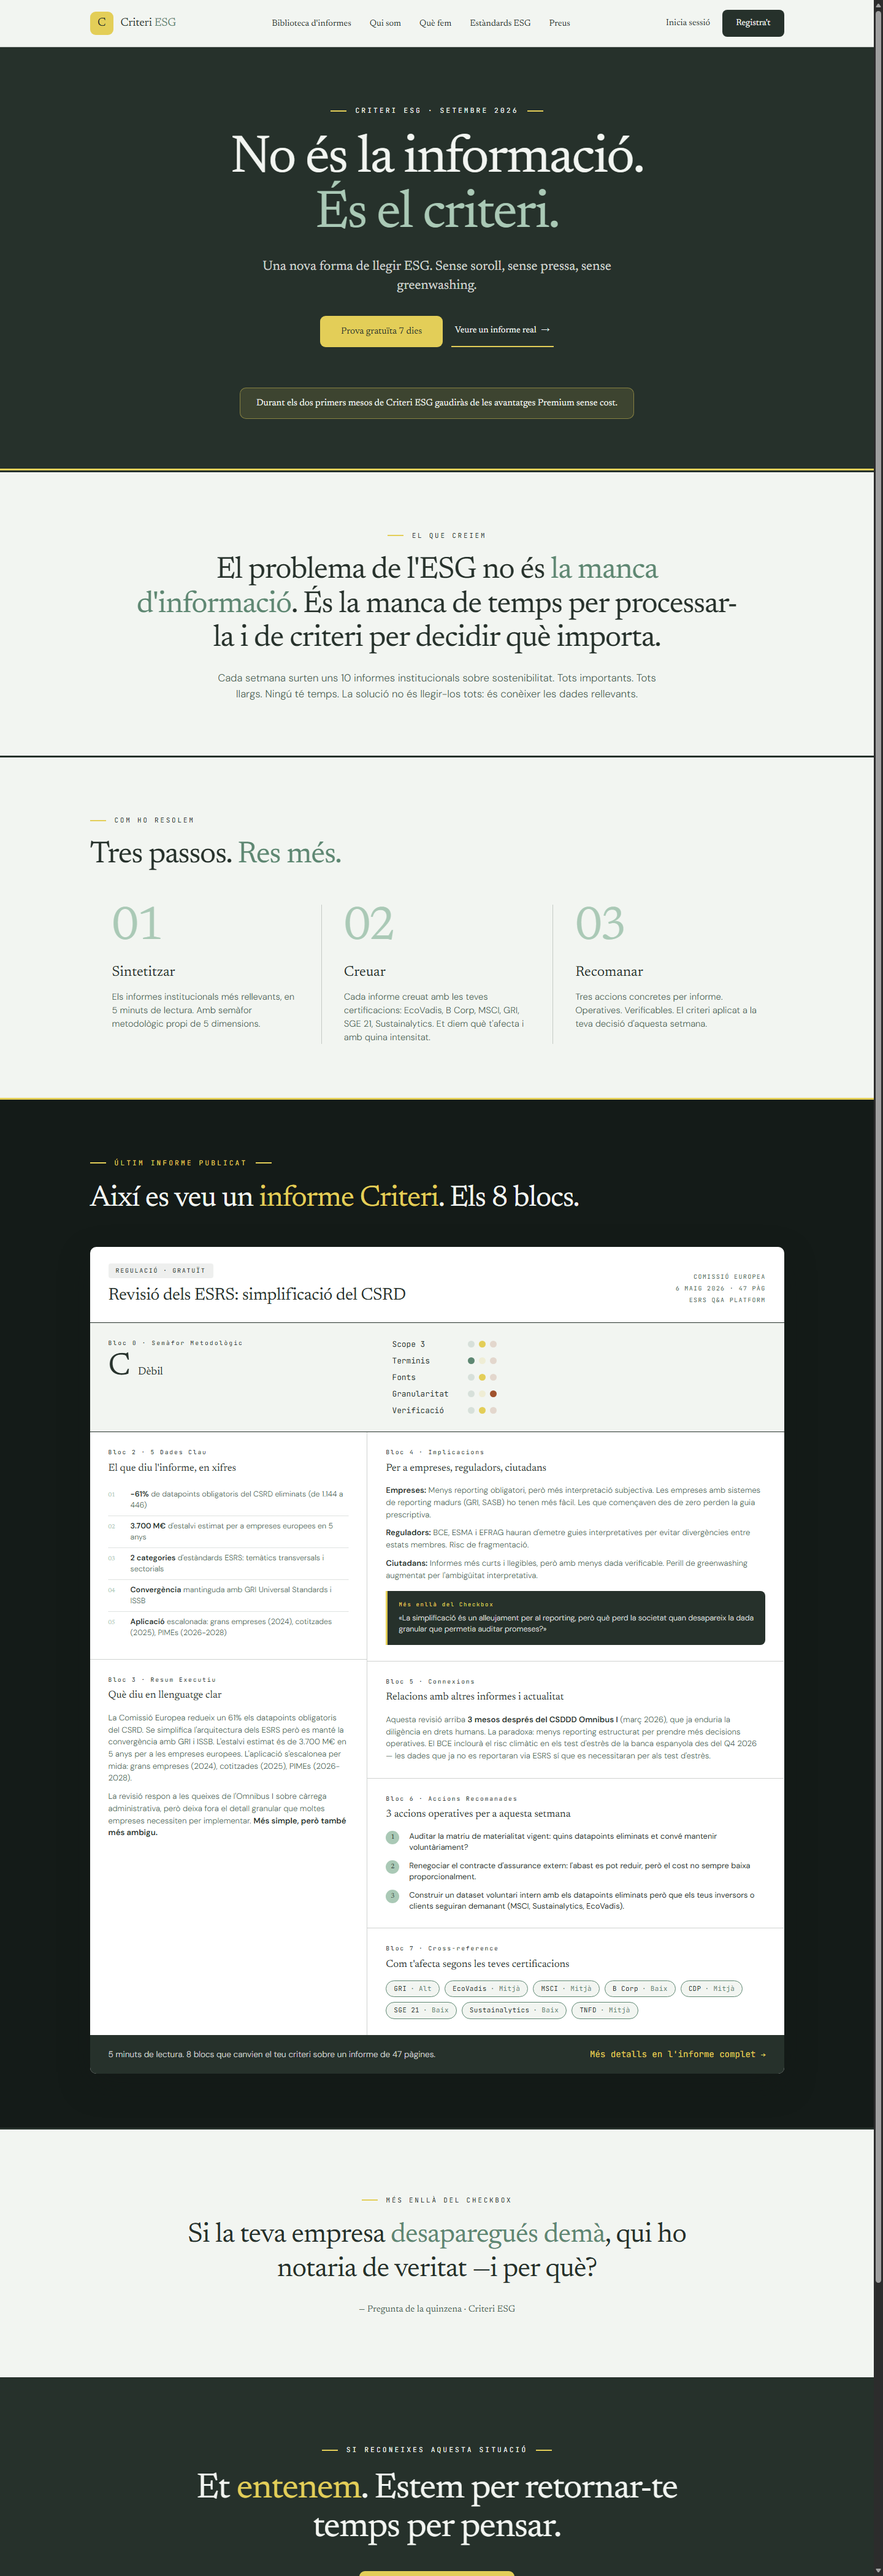
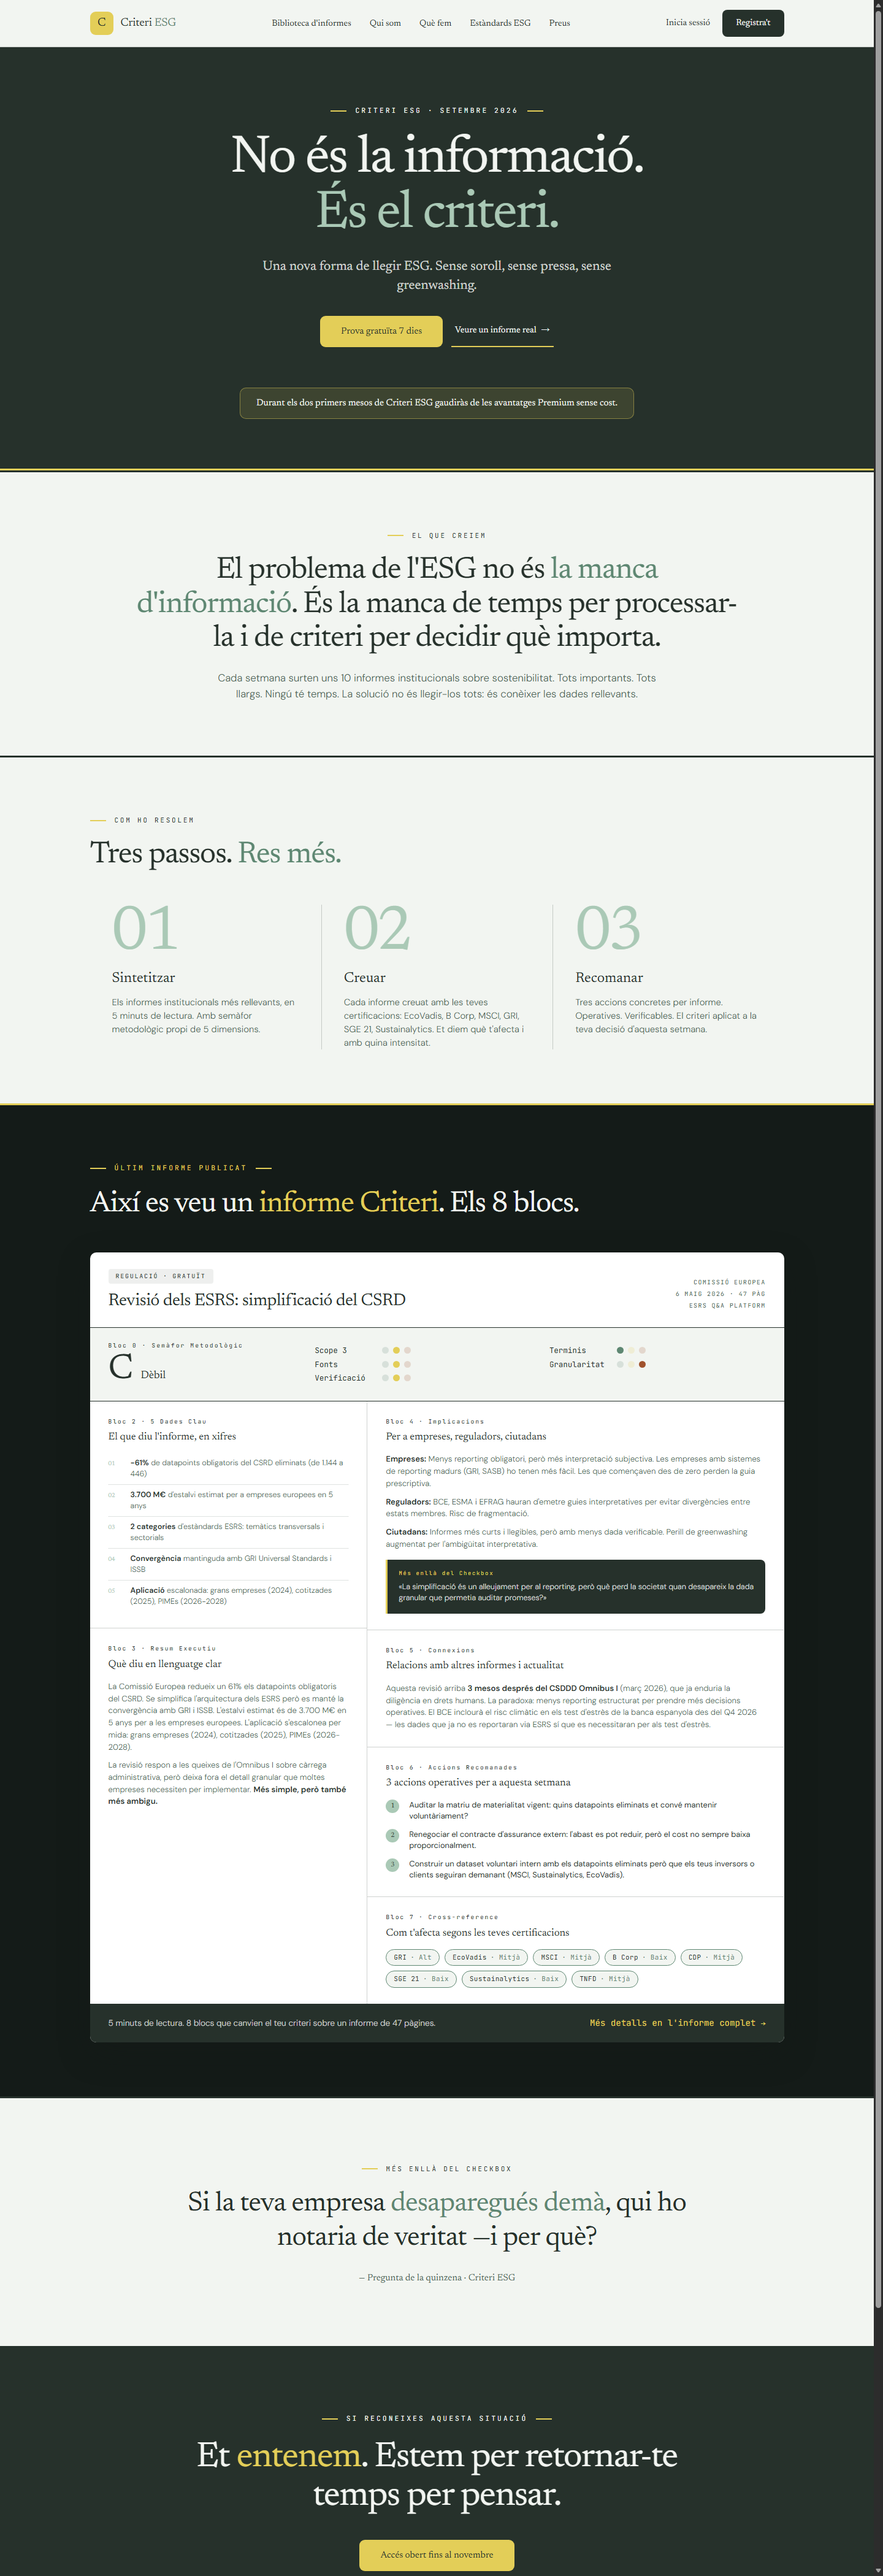
style: salvia v5 - numeros mes grans, espai reduit sota ells, semafor horitzontal amb metriques en 2 columnes

diff --git a/assets/redisseny-web/mockup-homepage-paleta-salvia.html b/assets/redisseny-web/mockup-homepage-paleta-salvia.html
@@ -179,10 +179,10 @@
   .thesis { padding: 0 36px; }
   .thesis + .thesis { border-left: 1px solid var(--line); }
   .thesis .num {
-    font-size: clamp(3.4rem, 6vw, 4.8rem); font-weight: 400;
-    color: var(--verd-clar); line-height: 1; letter-spacing: -0.04em;
+    font-size: clamp(4.4rem, 8vw, 6.4rem); font-weight: 400;
+    color: var(--verd-clar); line-height: 0.95; letter-spacing: -0.04em;
   }
-  .thesis h3 { font-size: 1.45rem; font-weight: 400; margin: 18px 0 12px; color: var(--ink); }
+  .thesis h3 { font-size: 1.45rem; font-weight: 400; margin: 8px 0 10px; color: var(--ink); }
   .thesis p { font-size: 0.92rem; font-weight: 300; color: var(--ink-soft); line-height: 1.5; }
 
   /* ============ INFORME DESTACAT ============ */
@@ -217,17 +217,18 @@
 
   .semafor {
     background: var(--bg); color: var(--ink);
-    display: grid; grid-template-columns: 1fr 1.4fr; gap: 28px;
-    padding: 26px 30px;
+    display: grid; grid-template-columns: minmax(190px, 0.9fr) minmax(0, 2.2fr); gap: 16px 36px;
+    align-items: center;
+    padding: 22px 30px;
     border-bottom: 1px solid var(--ink);
   }
   .semafor .label { font-size: 0.6rem; font-weight: 400; letter-spacing: 0.22em; color: var(--ink); }
-  .semafor .grade-row { display: flex; align-items: baseline; gap: 14px; margin-top: 8px; }
-  .semafor .grade { font-size: 3.2rem; font-weight: 400; color: var(--ink); line-height: 1; letter-spacing: -0.03em; }
+  .semafor .grade-row { display: flex; align-items: baseline; gap: 14px; margin-top: 6px; }
+  .semafor .grade { font-size: 3.6rem; font-weight: 400; color: var(--ink); line-height: 0.95; letter-spacing: -0.03em; }
   .semafor .grade-label { font-size: 1.1rem; font-weight: 400; color: var(--ink); }
-  .dims { display: flex; flex-direction: column; gap: 9px; }
-  .dim { display: grid; grid-template-columns: 110px 1fr; align-items: center; gap: 14px; }
-  .dim .dname { font-size: 0.8rem; font-weight: 400; }
+  .dims { display: grid; grid-template-columns: repeat(2, minmax(0, 1fr)); gap: 5px 30px; }
+  .dim { display: grid; grid-template-columns: 100px 1fr; align-items: center; gap: 10px; }
+  .dim .dname { font-size: 0.78rem; font-weight: 400; }
   .dots { display: flex; gap: 7px; }
   .dot { width: 11px; height: 11px; border-radius: 50%; }
   .dot.g { background: var(--accent); }          /* verd: salvia */
